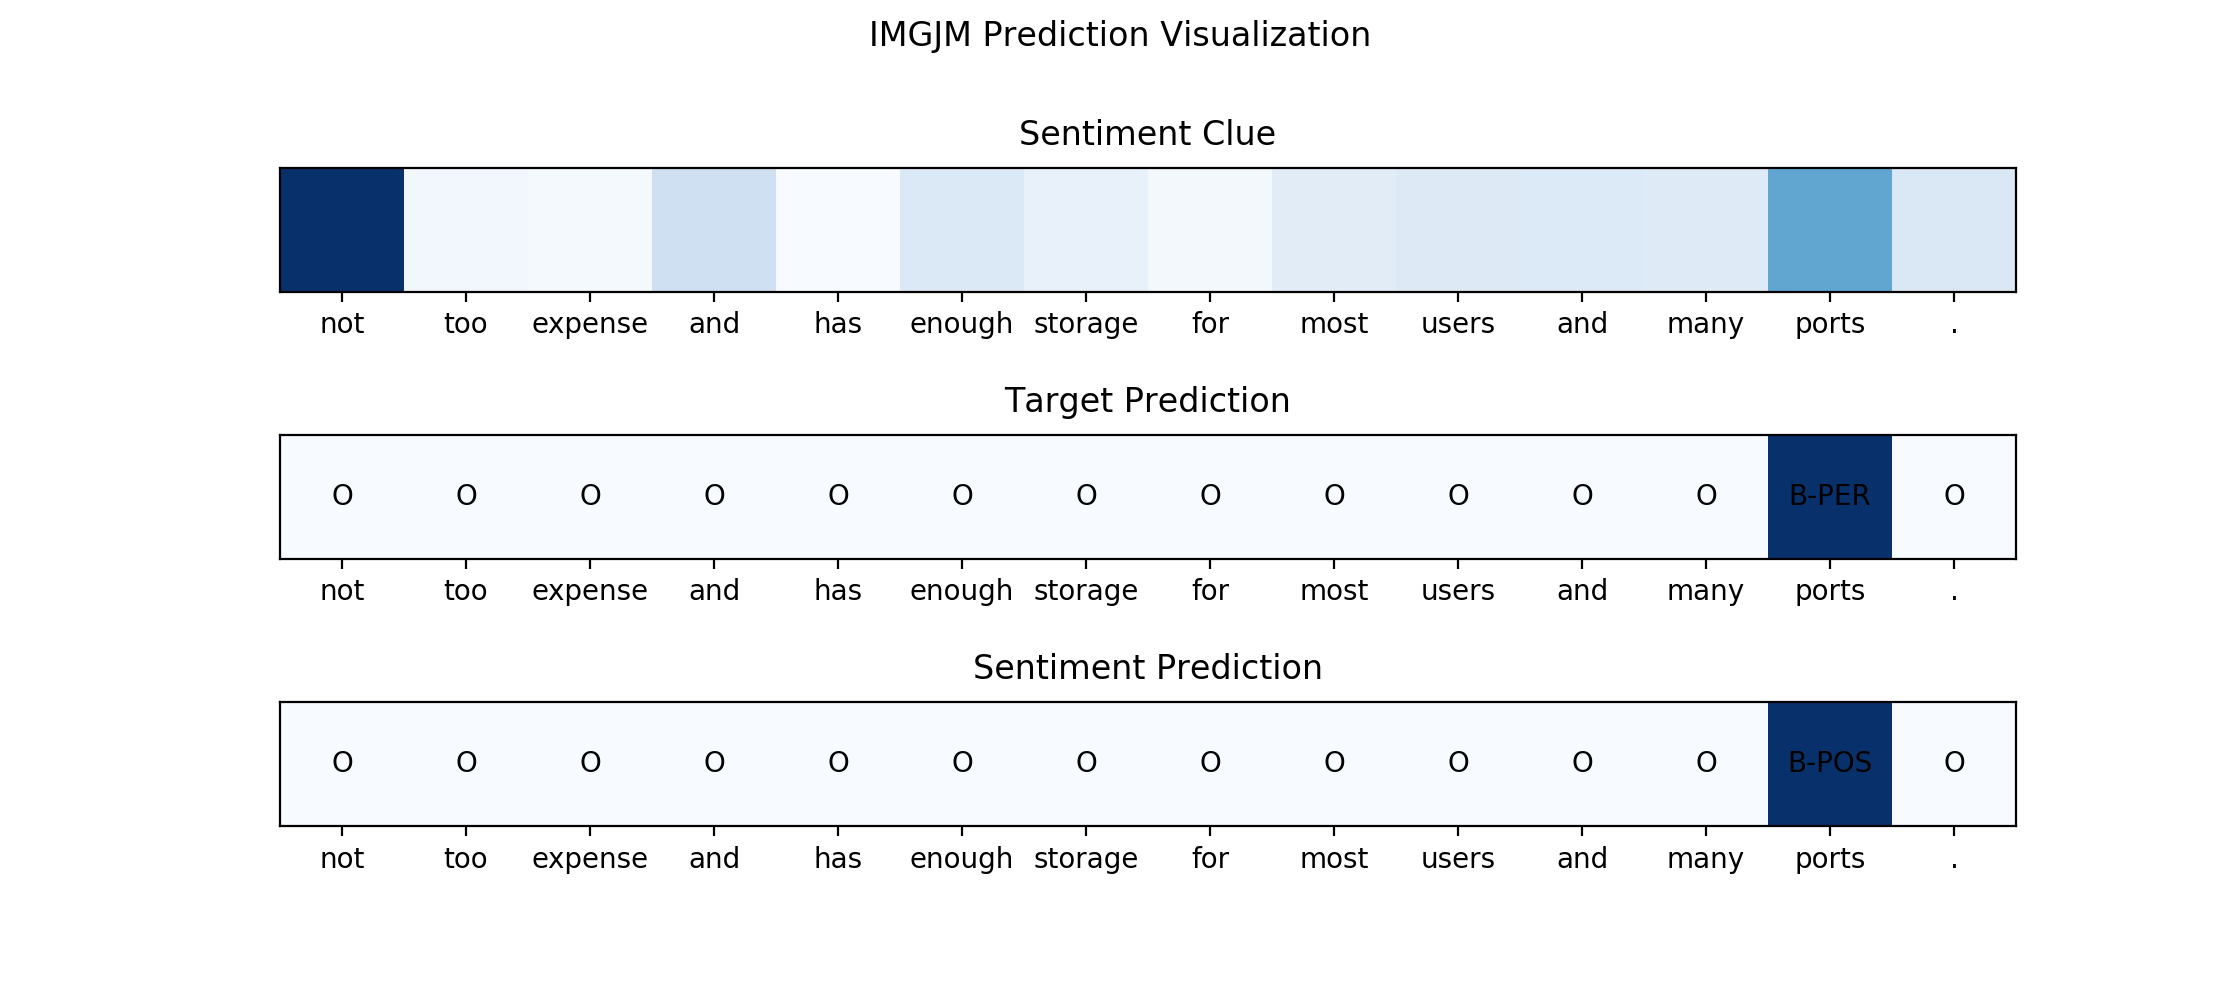
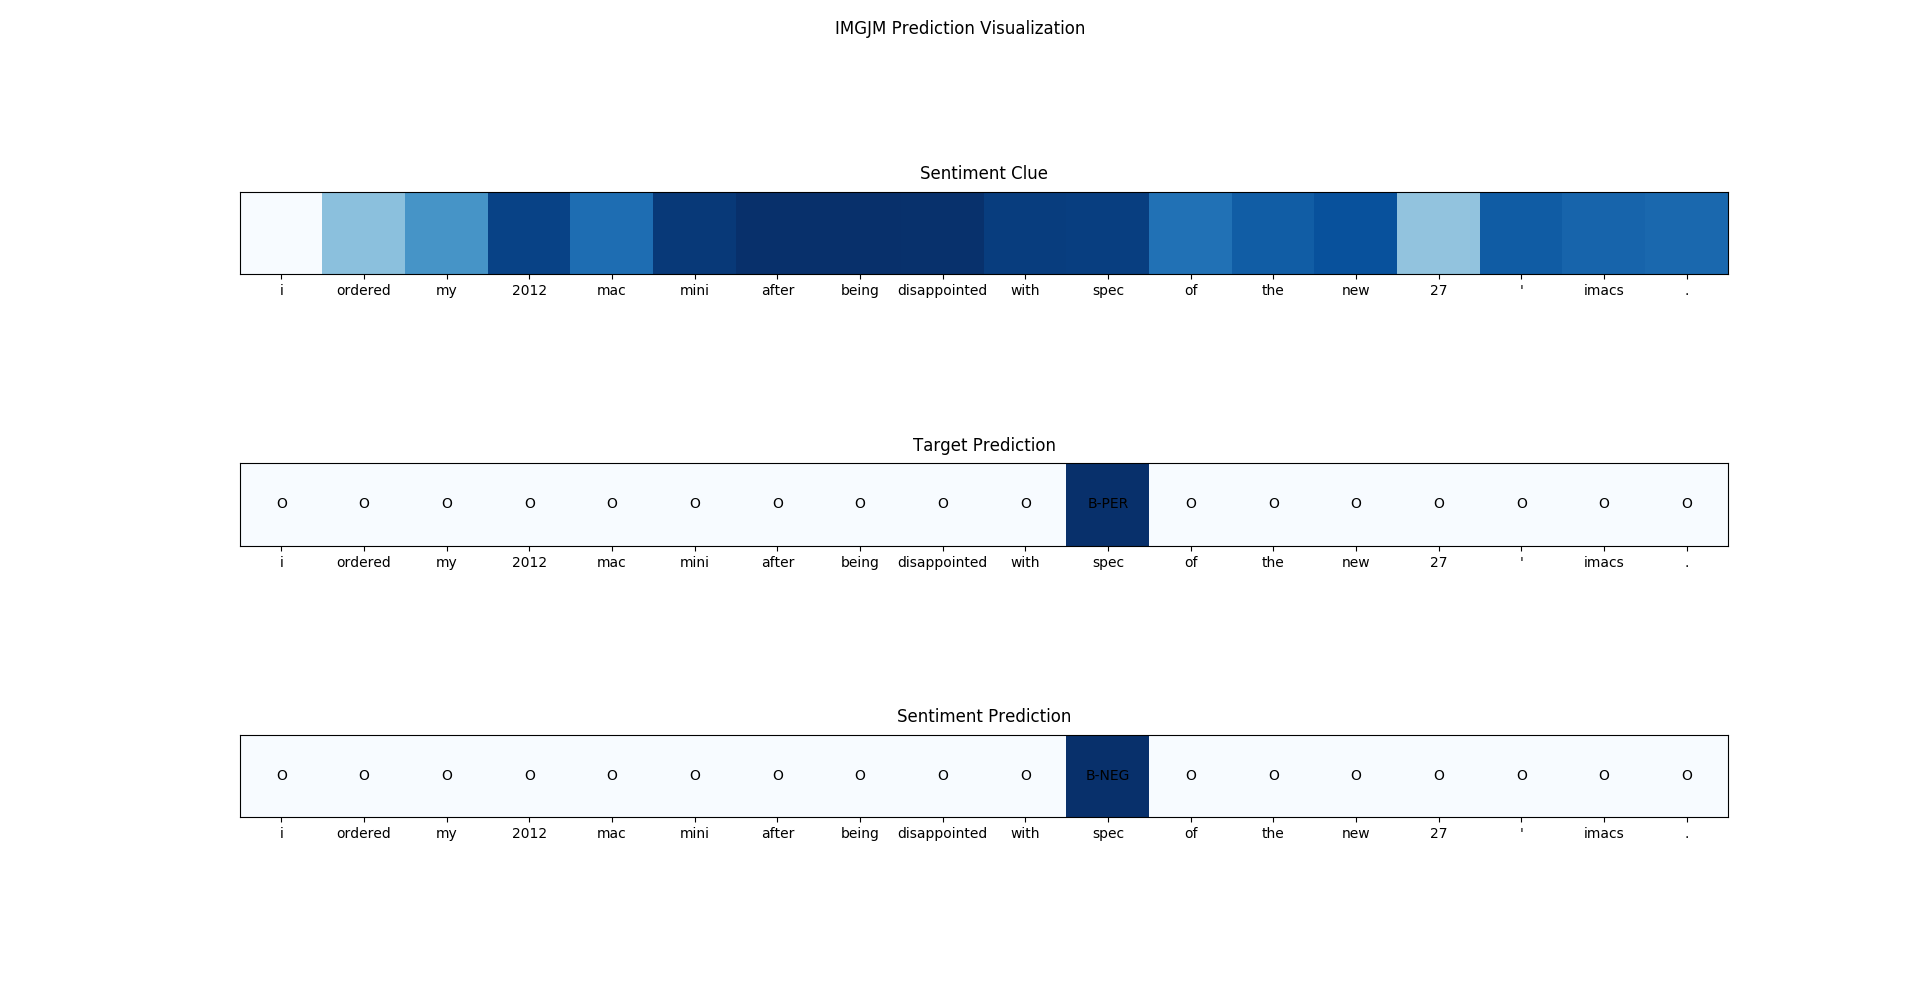
add dataset switch and revise case study

diff --git a/demo.py b/demo.py
@@ -119,9 +119,9 @@ def main(*args, **kwargs):
     if kwargs.get('mock_embedding'):
         logger.info('Initializing dataset...')
         if kwargs.get('dataset') == 'laptop':
-            dataset = SemEval2014()
+            dataset = SemEval2014(resource='laptop')
         elif kwargs.get('dataset') == 'rest':
-            dataset = SemEval2014()
+            dataset = SemEval2014(resource='rest')
         else:
             dataset = Twitter()
         vocab_size = len(dataset.char2id)
@@ -135,9 +135,9 @@ def main(*args, **kwargs):
         logger.info('Embeding loaded.')
         logger.info('Initializing dataset...')
         if kwargs.get('dataset') == 'laptop':
-            dataset = SemEval2014(word2id=word2id)
+            dataset = SemEval2014(word2id=word2id, resource='laptop')
         elif kwargs.get('dataset') == 'rest':
-            dataset = SemEval2014(word2id=word2id)
+            dataset = SemEval2014(word2id=word2id, resource='rest')
         else:
             dataset = Twitter(word2id=word2id)
         vocab_size = len(dataset.char2id)
@@ -151,7 +151,9 @@ def main(*args, **kwargs):
                   **config['custom'])
     logger.info('Model loaded.')
     model.load_model('outputs' + '/' + 'model')
-    s = ["windows 7 gaming and support sucks . no shock here ."]
+    s = [
+        "i ordered my 2012 mac mini after being disappointed with spec of the new 27 ' imacs ."
+    ]
     inputs = dataset.merge_and_pad_all(s)
     feed_dict = build_feed_dict(inputs)
     target_preds, sentiment_preds = model.predict_on_batch(feed_dict)

diff --git a/train.py b/train.py
@@ -72,9 +72,9 @@ def main(*args, **kwargs):
     if kwargs.get('mock_embedding'):
         logger.info('Initializing dataset...')
         if kwargs.get('dataset') == 'laptop':
-            dataset = SemEval2014()
+            dataset = SemEval2014(resource='laptop')
         elif kwargs.get('dataset') == 'rest':
-            dataset = SemEval2014()
+            dataset = SemEval2014(resource='rest')
         else:
             dataset = Twitter()
         vocab_size = len(dataset.char2id)
@@ -88,9 +88,9 @@ def main(*args, **kwargs):
         logger.info('Embeding loaded.')
         logger.info('Initializing dataset...')
         if kwargs.get('dataset') == 'laptop':
-            dataset = SemEval2014(word2id=word2id)
+            dataset = SemEval2014(word2id=word2id, resource='laptop')
         elif kwargs.get('dataset') == 'rest':
-            dataset = SemEval2014(word2id=word2id)
+            dataset = SemEval2014(word2id=word2id, resource='rest')
         else:
             dataset = Twitter(word2id=word2id)
         vocab_size = len(dataset.char2id)
